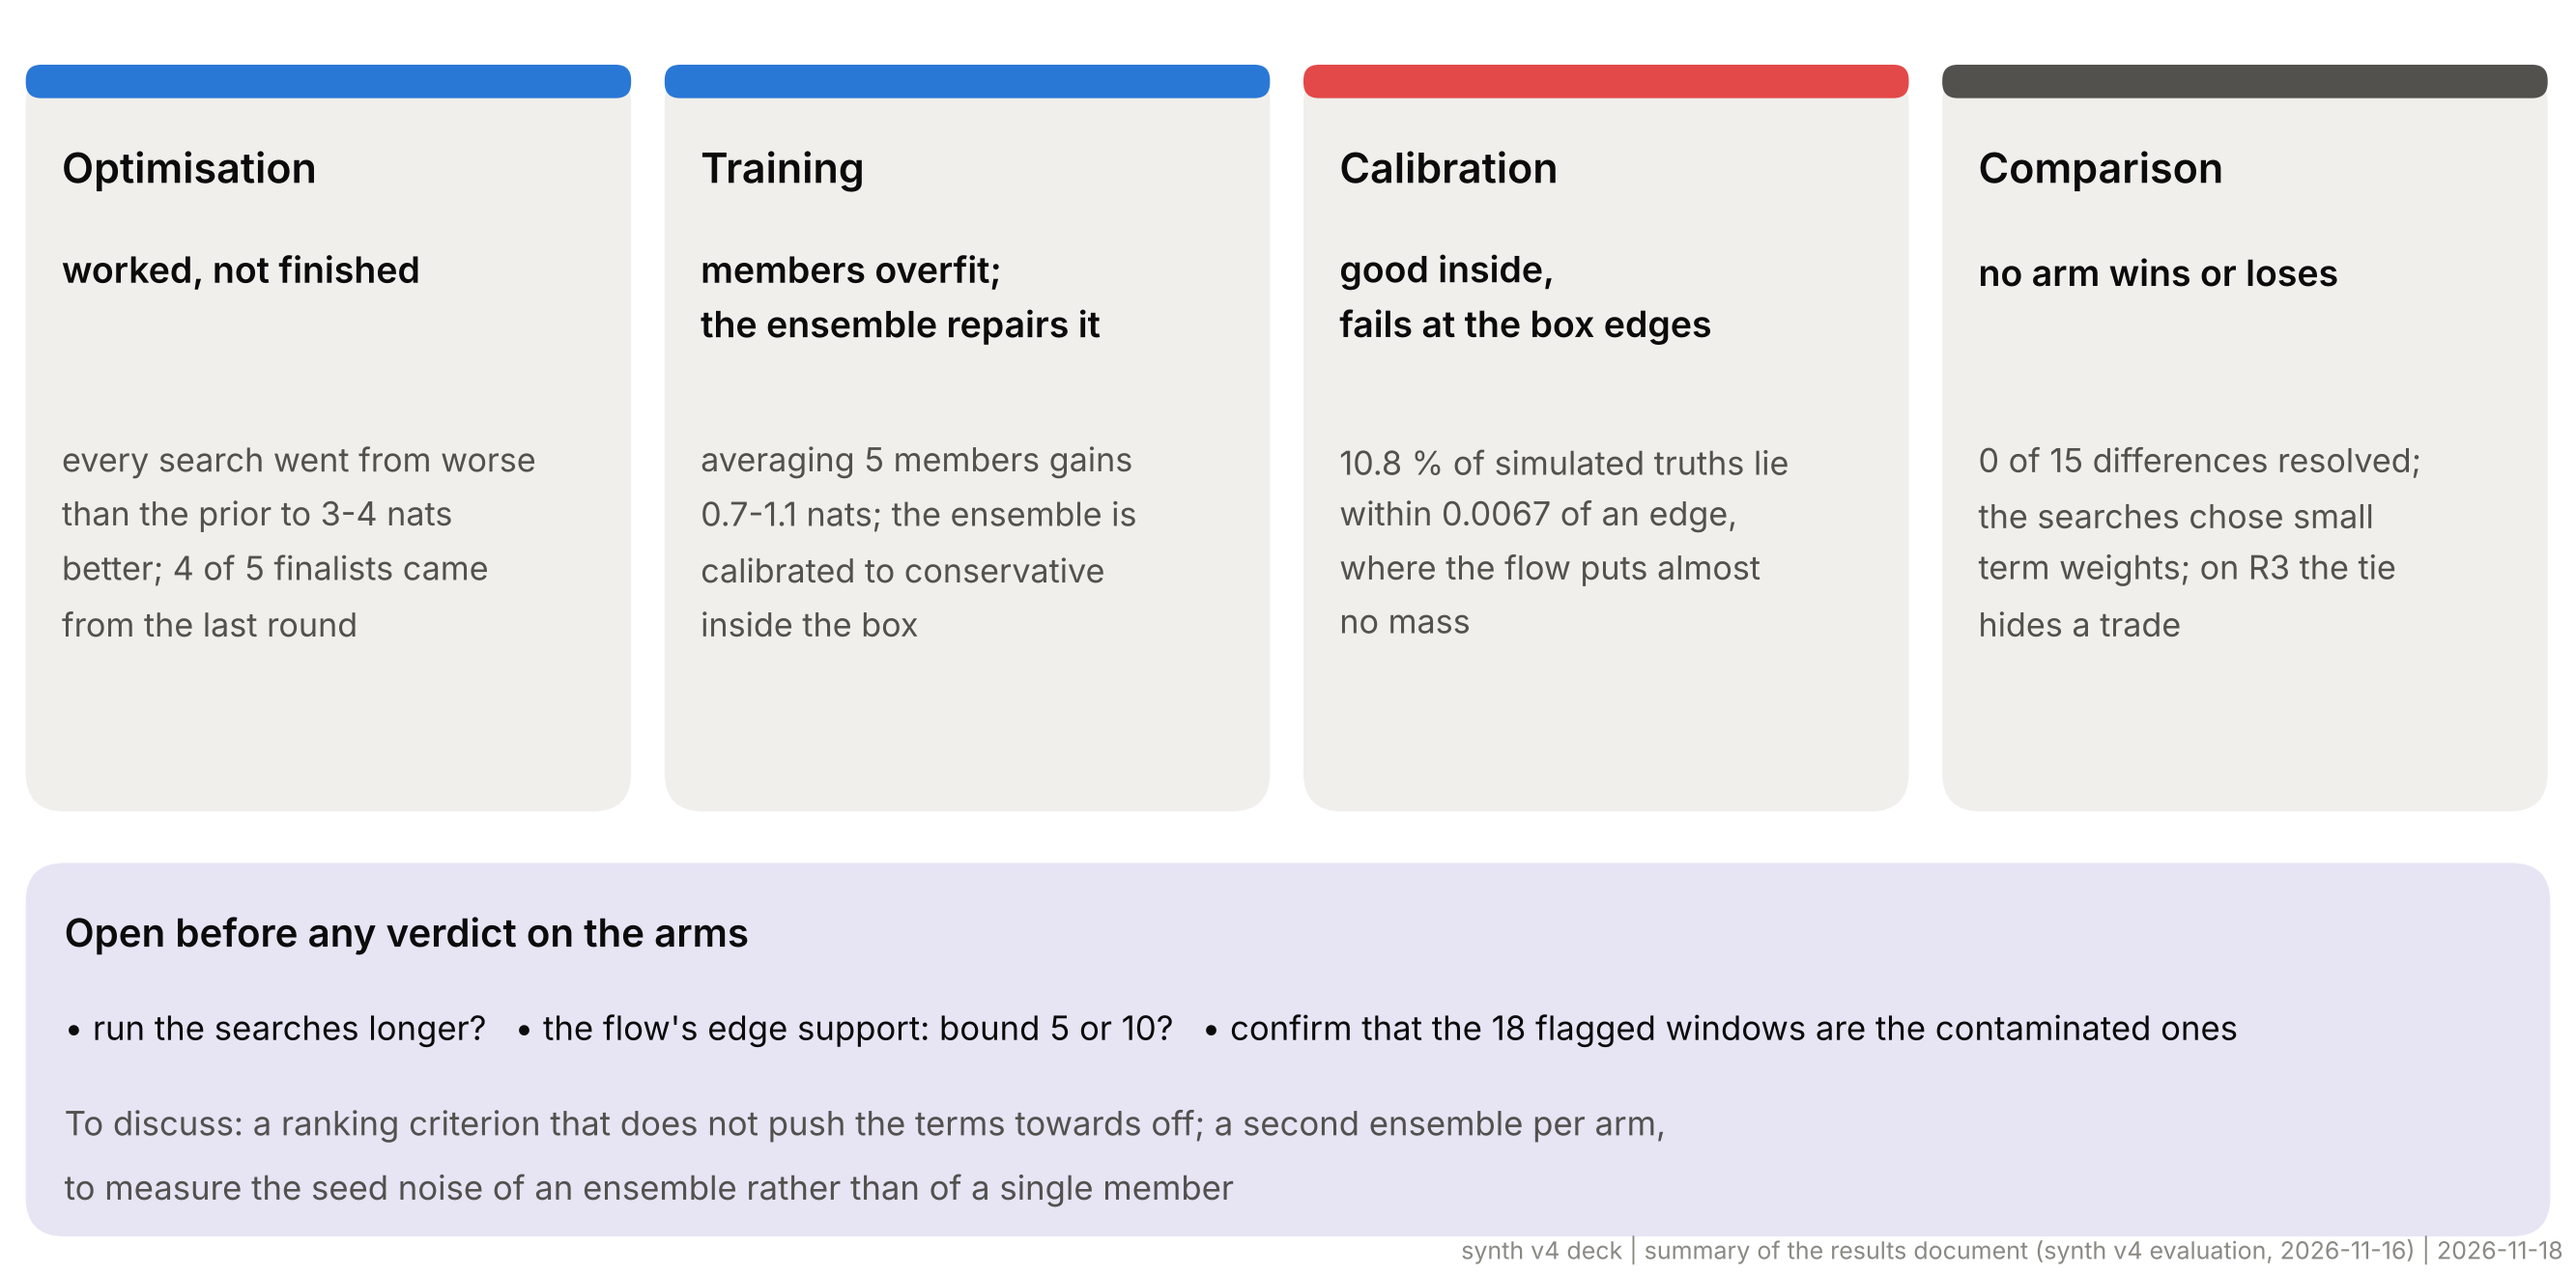
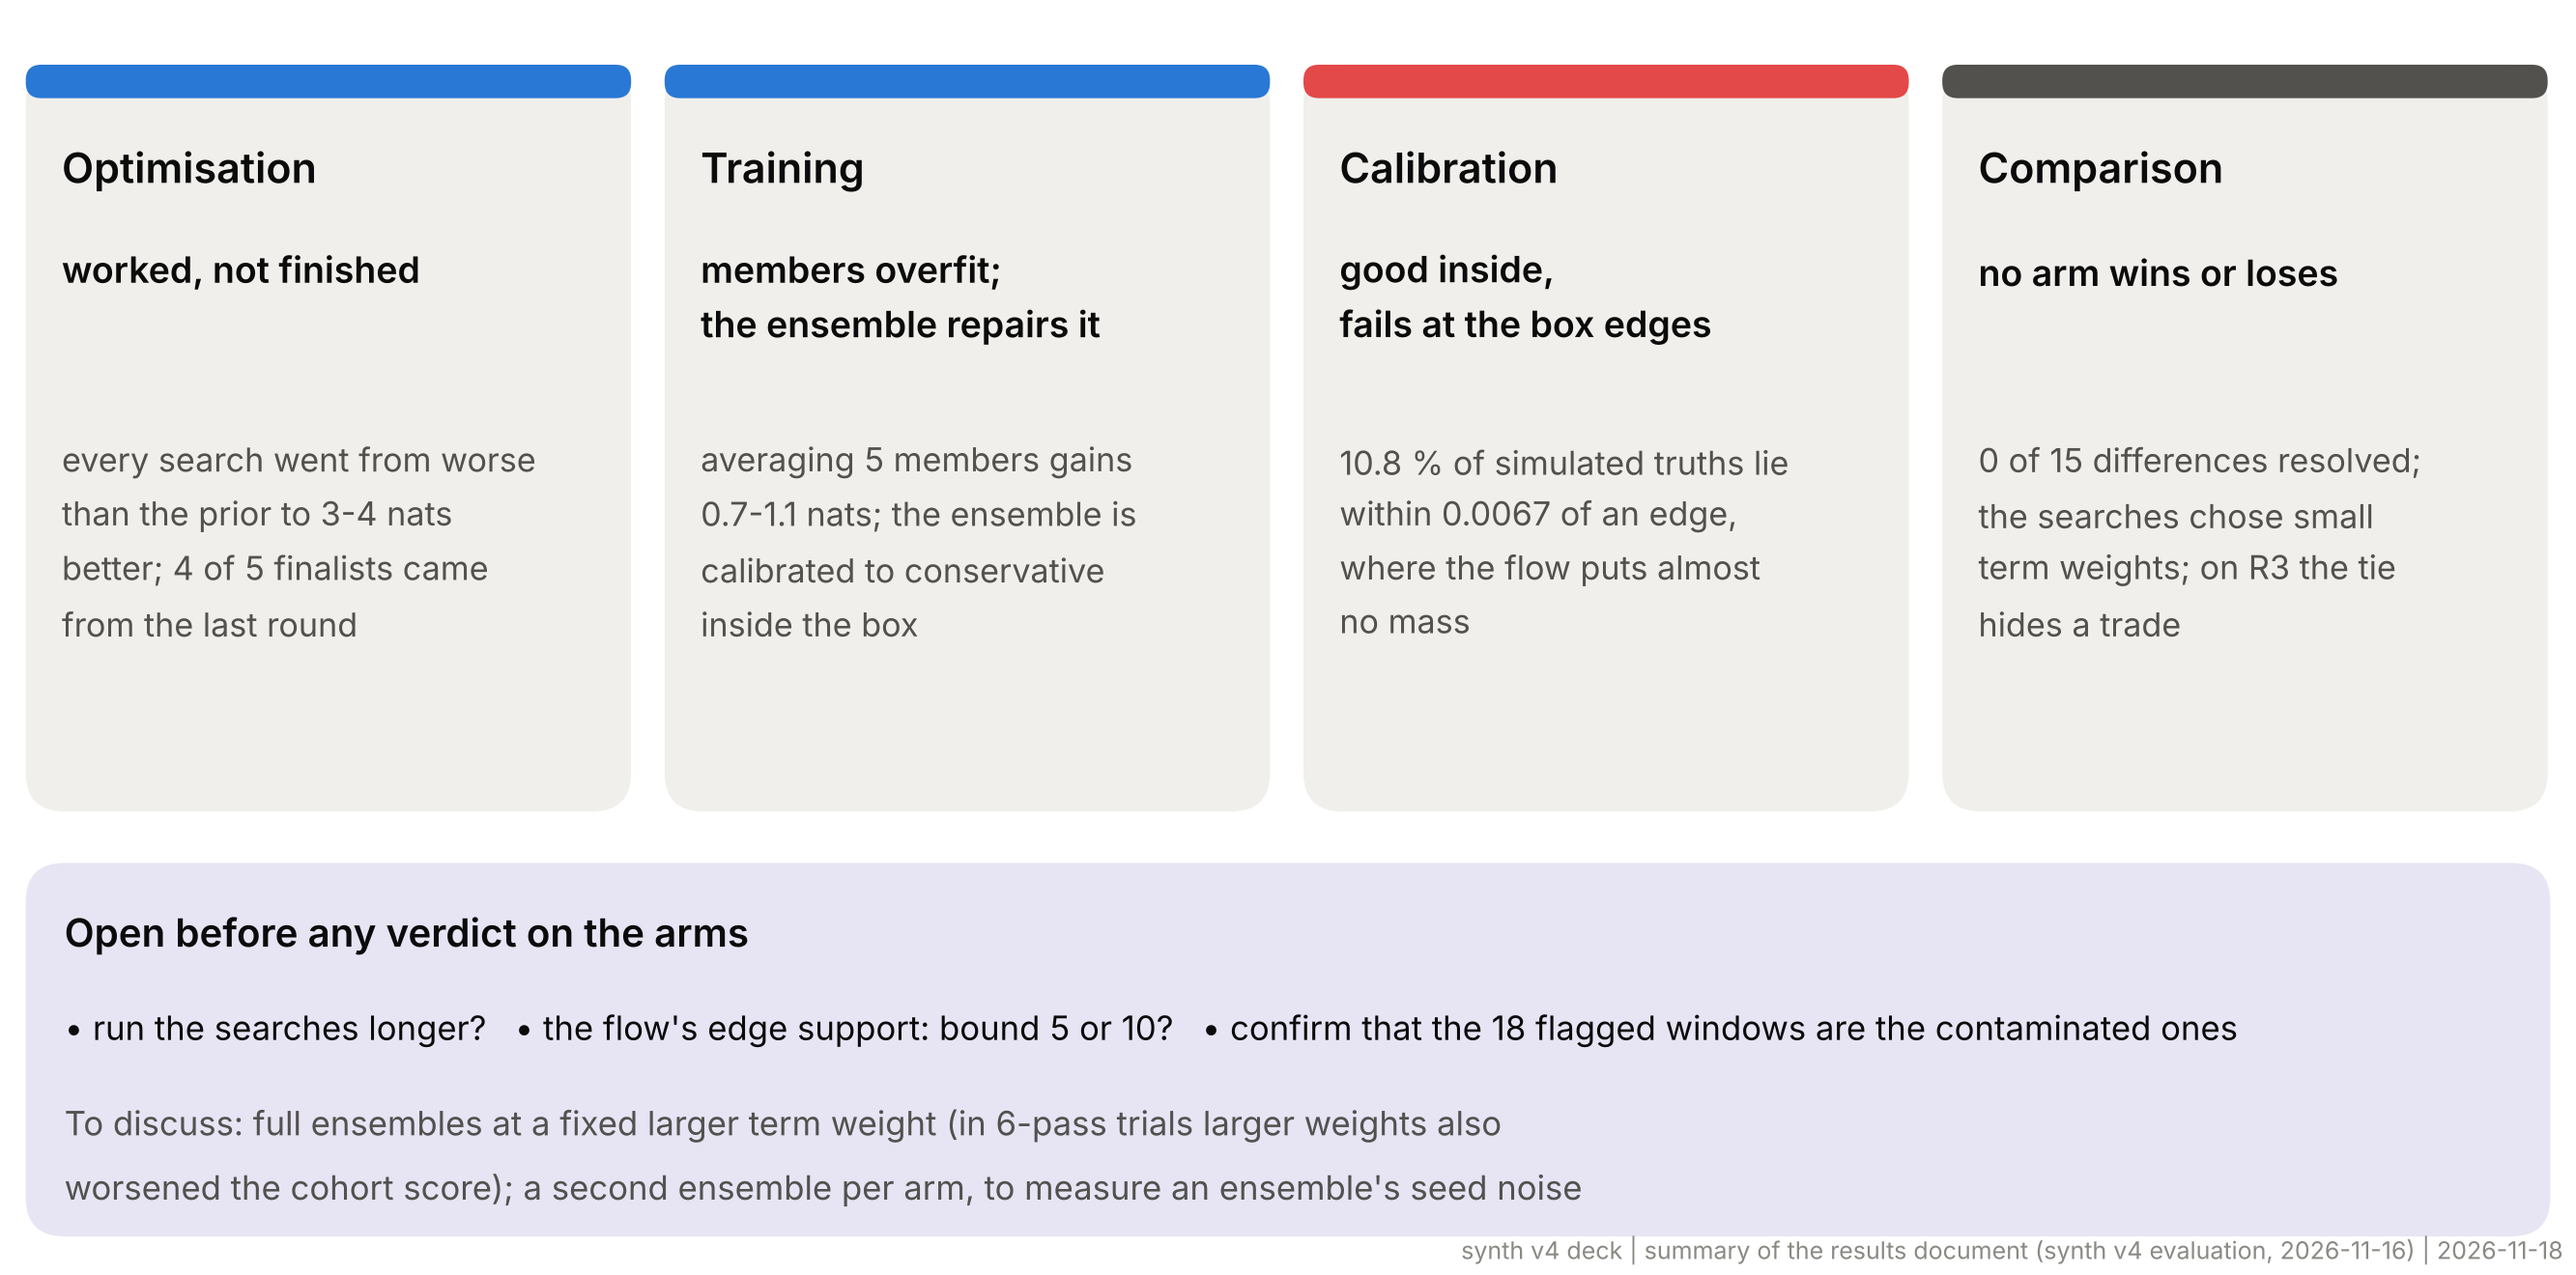
deck pack synth v4 v2: the small term weights are not only the criterion's doing; the centres are recorded in the bank sidecars
Two corrections, the superseded statements kept and marked [corrected 2026-11-18]:
- slides 12 and 19, F18's "To discuss" line and the Q&A: in the searches' 6-pass trials a larger term weight also worsened the cohort score (Spearman +0.35 to +0.68; random first-round trials +0.45/+0.52 for the replicate weight, p 0.046/0.020), so the suggestion is now full ensembles at a fixed larger weight; F18 redrawn, contact sheet updated.
- 9.3: the condition centres are written down, in each bank sidecar's latent_spec.class_centres (LatentSBISpec.to_dict).

Evidence: check 5 of the study document "Reading the synth v4 results" (2026-11-18) on the trials of synth_v4_results.tar.gz; hpc/joint/stage1/latent_sbi_simulator.py.

Claude-Session: https://claude.ai/code/session_015FuK9wFeZPGM6wNwvQCfdj

Changed region(s): [[0.0311, 0.8697, 0.6538, 0.9629]]

diff --git a/docs/project/deck_pack_synth_v4/scripts/figs_schematics.py b/docs/project/deck_pack_synth_v4/scripts/figs_schematics.py
@@ -541,11 +541,14 @@ def fig18_take_home():
     ax.text(2.5, 9.6, "\u2022 run the searches longer?   \u2022 the flow's edge support: "
             "bound 5 or 10?   \u2022 confirm that the 18 flagged windows are the "
             "contaminated ones", fontsize=12.5, color=S.INK, va="center")
-    ax.text(2.5, 5.9, "To discuss: a ranking criterion that does not push the terms "
-            "towards off; a second ensemble per arm,", fontsize=12.5, color=S.INK2,
-            va="center")
-    ax.text(2.5, 3.4, "to measure the seed noise of an ensemble rather than of a single "
-            "member", fontsize=12.5, color=S.INK2, va="center")
+    # [corrected 2026-11-18] was: "To discuss: a ranking criterion that does not push
+    # the terms towards off; ..." -- in the 6-pass trials a larger weight also worsened
+    # the cohort score (study doc of 2026-11-18, check 5), so the criterion is not the
+    # whole reason the weights are small.
+    ax.text(2.5, 5.9, "To discuss: full ensembles at a fixed larger term weight (in 6-pass "
+            "trials larger weights also", fontsize=12.5, color=S.INK2, va="center")
+    ax.text(2.5, 3.4, "worsened the cohort score); a second ensemble per arm, to measure "
+            "an ensemble's seed noise", fontsize=12.5, color=S.INK2, va="center")
     S.footer(fig, FOOT % "summary of the results document (synth v4 evaluation, 2026-11-16)")
     S.save(fig, OUT, "F18_take_home")
 

diff --git a/docs/project/deck_pack_synth_v4/DECK_DESIGN_synth_v4.md b/docs/project/deck_pack_synth_v4/DECK_DESIGN_synth_v4.md
@@ -2,6 +2,7 @@
 
 | Date | Change |
 |---|---|
+| 2026-11-18 | v2. Two corrections, statements kept and marked "[corrected 2026-11-18]". (1) The small term weights: slides 12 and 19, F18's "To discuss" line and the Q&A of §10 said the simulated ranking criterion pushed the terms towards off; in the searches' 6-pass trials a larger weight also worsened the cohort's own score (Spearman +0.35 to +0.68 over each term search's 60 trials; in the 20 random first-round trials +0.45 and +0.52 for the replicate weight, p = 0.046 and 0.020, nothing detectable for the DSN weight), so the criterion is not the whole reason; the suggestion is now full ensembles at a fixed larger weight. F18 redrawn. (2) §9.3: the condition centres are written down, in each bank sidecar's `latent_spec.class_centres`. Evidence: check 5 of the study document "Reading the synth v4 results" (2026-11-18, delivered as files) on the trials' records of `synth_v4_results.tar.gz`; `hpc/joint/stage1/latent_sbi_simulator.py`, `LatentSBISpec.to_dict`. |
 | 2026-11-18 | v1. Design of a 15-20 min PowerPoint on synth v4: the synthetic traces, the joint DSN + NPE model, the optimisation and training, the three arms and the results. 19 main slides, 8 backup slides, 18 figures (PNG at 200 dpi and SVG) with the scripts that make them. Numbers taken from the synth v4 evaluation files and checked against the results document of 2026-11-16. |
 
 This is the brief for whoever builds the deck: you, a design session, or the Slides tool. Per slide it gives the title (the message), what goes on the slide, which figure and where, the equation if there is one, and the speaker notes. The slides use plain words and only five equations. The technical detail is in the notes and the backup slides.
@@ -163,7 +164,7 @@ $$q_E(\theta\mid x)\;=\;\frac{1}{5}\sum_{m=1}^{5}q_{E,m}(\theta\mid x)$$
 - **Title:** Every search went from worse than the prior to 3-4 nats better, and was still improving
 - **Figure:** F11, full.
 - **On the slide** (right of the figure, or as a footer line): finalists' L from -3.12 to -4.17; 4 of 5 found in the last round.
-- **Notes:** "Each curve is the best L found so far in one search. The faint dots are single trials and the rings the finalists. At the start, a short untuned training is worse than the prior: the median of the random round is +1.5 to +1.75 nats. By the end every search is 3 to 4 nats better than the prior. Four of the five finalists come from the last round, and three searches had their best median in the last round. More rounds would probably have found better configurations. Two things to remember for later. First, ranking on simulations did not mislead on the cohort: within a search, the simulated and the cohort scores order trials almost identically. Second, every term search picked a small weight, lambda between 0.0015 and 0.013. A larger weight went with a worse simulated score, so the criterion pushed the terms towards off." Tags: medians +1.49 to +1.75, finalists -3.122 to -4.173, rounds, Spearman 0.85-0.98, lambda, Spearman(log lambda, L) +0.32 to +0.70 [DATA: `search_<q>.json`, `finalist_config.json`; RES §3.3]; "more rounds would help" [OWN, Likely].
+- **Notes:** "Each curve is the best L found so far in one search. The faint dots are single trials and the rings the finalists. At the start, a short untuned training is worse than the prior: the median of the random round is +1.5 to +1.75 nats. By the end every search is 3 to 4 nats better than the prior. Four of the five finalists come from the last round, and three searches had their best median in the last round. More rounds would probably have found better configurations. Two things to remember for later. First, ranking on simulations did not mislead on the cohort: within a search, the simulated and the cohort scores order trials almost identically. Second, every term search picked a small weight, lambda between 0.0015 and 0.013. A larger weight went with a worse simulated score, so the criterion pushed the terms towards off [corrected 2026-11-18: a larger weight also went with a worse cohort score in the same trials, so at 6 passes the terms did not help the cohort either, and ranking on the cohort score would most likely also have chosen small weights]." Tags: medians +1.49 to +1.75, finalists -3.122 to -4.173, rounds, Spearman 0.85-0.98, lambda, Spearman(log lambda, L) +0.32 to +0.70 [DATA: `search_<q>.json`, `finalist_config.json`; RES §3.3]; "more rounds would help" [OWN, Likely]; [added 2026-11-18] Spearman(log lambda, L_pr) +0.35 to +0.68 over each term search's 60 trials, and in the 20 random first-round trials +0.45 and +0.52 for the replicate weight (p = 0.046, 0.020) and +0.20 and +0.17 for the DSN weight (p = 0.41, 0.46) [RUN: study document of 2026-11-18, `scripts/check05_lambda.py`].
 
 ### Slide 13: result 2, members and the mixture
 
@@ -206,7 +207,7 @@ $$q_E(\theta\mid x)\;=\;\frac{1}{5}\sum_{m=1}^{5}q_{E,m}(\theta\mid x)$$
 
 - **Title:** The pipeline works end to end; this run cannot yet tell the arms apart
 - **Figure:** F18, full.
-- **Notes:** "Four messages. The optimisation worked but had not finished. Training gives overfit members, and the mixture repairs them. Calibration is good inside the box and fails at its edges, for a reason we understand. The comparison has no verdict: training noise is larger than every difference, and the searches chose term weights so small that the terms were nearly off. Before any conclusion on A2 or A5, the open questions are whether to run longer searches, what to do about the edge support, and confirming the contaminated windows. Two things to discuss: a ranking criterion that does not push the terms towards off, and a second ensemble per arm, so we measure the seed noise of an ensemble rather than of a single member." Tags: all from slides 12-18; the open points [RES §3.3, §3.6, §3.7 (Open)]; the two discussion items [OWN, from RES §3.3 and §3.8 readings].
+- **Notes:** "Four messages. The optimisation worked but had not finished. Training gives overfit members, and the mixture repairs them. Calibration is good inside the box and fails at its edges, for a reason we understand. The comparison has no verdict: training noise is larger than every difference, and the searches chose term weights so small that the terms were nearly off. Before any conclusion on A2 or A5, the open questions are whether to run longer searches, what to do about the edge support, and confirming the contaminated windows. Two things to discuss: a ranking criterion that does not push the terms towards off [corrected 2026-11-18: full ensembles trained at a fixed larger term weight, since in the 6-pass trials a larger weight also worsened the cohort score, so another criterion would likely not have chosen larger weights], and a second ensemble per arm, so we measure the seed noise of an ensemble rather than of a single member." Tags: all from slides 12-18; the open points [RES §3.3, §3.6, §3.7 (Open)]; the two discussion items [OWN, from RES §3.3 and §3.8 readings; the first corrected on the study document's check 5, 2026-11-18].
 
 ## 4. Backup slides
 
@@ -358,7 +359,7 @@ The condition centres come from the DSN generator's `_class_center_vectors(3, 8,
 | second vector's sign flipped (used in the figures) | 4.440 | 0.101 |
 | expected if the centres are right (tau = 0.10) | 4.32 +/- 0.29 | 0.100 |
 
-The distances between centres, 0.441934, are the same in both bases. Only the orientation differs. The results are unaffected, because every score uses the recorded theta*. Two things follow beyond this deck, neither acted on. First, a cohort rebuilt on another machine may place the conditions differently, so its theta* would not be reproduced. Second, the centres are not written down anywhere a reader can check them. Both are for the pipeline, not the deck. [RUN: `centres.py`; DATA: theta_ref of R0 and R3]
+The distances between centres, 0.441934, are the same in both bases. Only the orientation differs. The results are unaffected, because every score uses the recorded theta*. Two things follow beyond this deck, neither acted on. First, a cohort rebuilt on another machine may place the conditions differently, so its theta* would not be reproduced. Second, the centres are not written down anywhere a reader can check them [corrected 2026-11-18: they are; each bank's sidecar records them as `latent_spec.class_centres` (`LatentSBISpec.to_dict`, `hpc/joint/stage1/latent_sbi_simulator.py`); the sidecars are on davinci and not in the evaluation bundle, so the mirrored basis above remains a reconstruction until a sidecar is read]. Both are for the pipeline, not the deck. [RUN: `centres.py`; DATA: theta_ref of R0 and R3]
 
 ### 9.4 Literature searches
 
@@ -369,7 +370,7 @@ The distances between centres, 0.441934, are the same in both bases. Only the or
 
 ### 9.5 Open, as the results document leaves them
 
-Whether to run the searches longer; the flow's edge support (bound 5 or 10); confirming the 18 flagged windows against the bank's contamination flags (the data overview, block 23, has not been run); why the L-C2ST rejection rate is higher on R0 than on simulations at equal mean statistic; a multiplicity correction over the 15 verdicts. [RES §3.3, §3.6, §3.7, §3.8]
+Whether to run the searches longer; the flow's edge support (bound 5 or 10); confirming the 18 flagged windows against the bank's contamination flags (the data overview, block 23, has not been run); why the L-C2ST rejection rate is higher on R0 than on simulations at equal mean statistic; a multiplicity correction over the 15 verdicts. [RES §3.3, §3.6, §3.7, §3.8] [added 2026-11-18] What a larger term weight does after full training (no trial reached it), and the retraining spread of an ensemble, which a second ensemble per arm would measure. [study document of 2026-11-18, §3.3 and §3.8]
 
 ## 10. Questions the supervisor may ask
 
@@ -378,9 +379,9 @@ Whether to run the searches longer; the flow's edge support (bound 5 or 10); con
 | Why is A1 better on R0? | Its ensemble is; its members are not. The lead is its larger mixture gain, and its flow is 3.5-7 times wider, so arm and architecture are mixed. | slide 17, B3 |
 | The intervals exclude zero; why "not resolved"? | Rule G.2 also asks the difference to beat twice the spread between single retrainings. None does: the ratios are at most 0.82. | slides 11, 17 |
 | Is sigma_seed fair? | It is strict. It is the spread of single members, while D-bar compares mixtures of five, which vary less. A second ensemble per arm would measure the right spread. | slide 19 |
-| Did the terms do anything? | At the weights the searches chose (lambda 0.0015-0.013) they were nearly off. "Not resolved" is not a measured zero. | slides 12, 19 |
+| Did the terms do anything? | At the weights the searches chose (lambda 0.0015-0.013) they were nearly off. "Not resolved" is not a measured zero. [added 2026-11-18] And in the short trials a larger replicate weight made the cohort score worse too, so the small weights are not only the criterion's doing. | slides 12, 19 |
 | Are the posteriors miscalibrated? | Only at the box edges, a known property of the flow shared by all arms. Inside, they are calibrated or conservative. Single members are overconfident. | slide 15 |
 | What does -7.7 nats mean? | On average, about 2,300 times the prior's density at the true parameters. | slides 11, 16 |
 | Are the 18 windows really the contaminated ones? | Very likely: same 18 under three ensembles, at most one per well, about the expected count. Not yet confirmed against the bank's flags. | slide 16 |
 | Why do the free axes stay at the prior? | They barely change the window statistics, so the data cannot identify them. That is the correct posterior. | slide 14 |
-| What next? | Decide on longer searches and a criterion the terms can win on, add a second ensemble per arm, and settle the edge support. Then re-run. | slide 19 |
+| What next? | Decide on longer searches and a criterion the terms can win on [corrected 2026-11-18: and ensembles trained in full at a fixed larger term weight, since the short trials' cohort score also preferred small weights], add a second ensemble per arm, and settle the edge support. Then re-run. | slide 19 |
